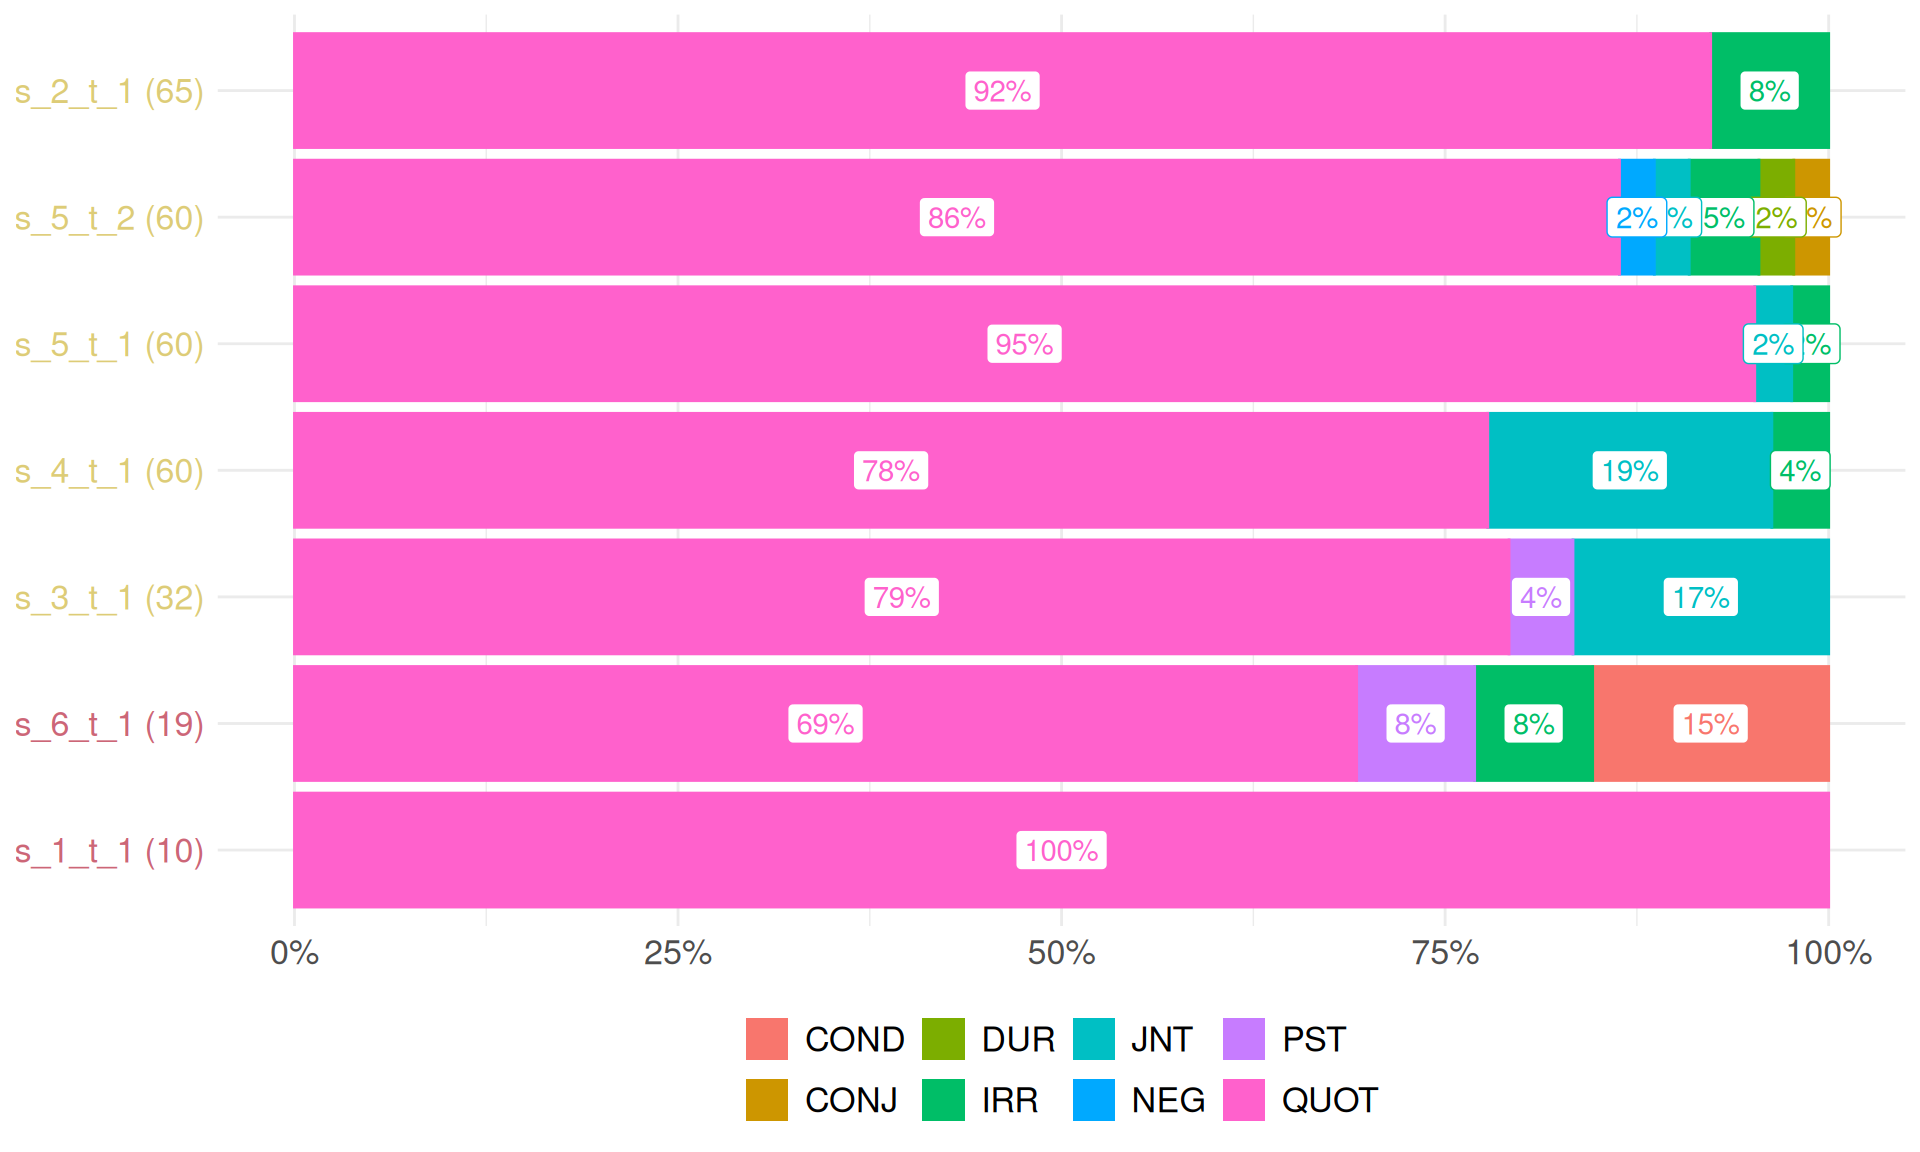
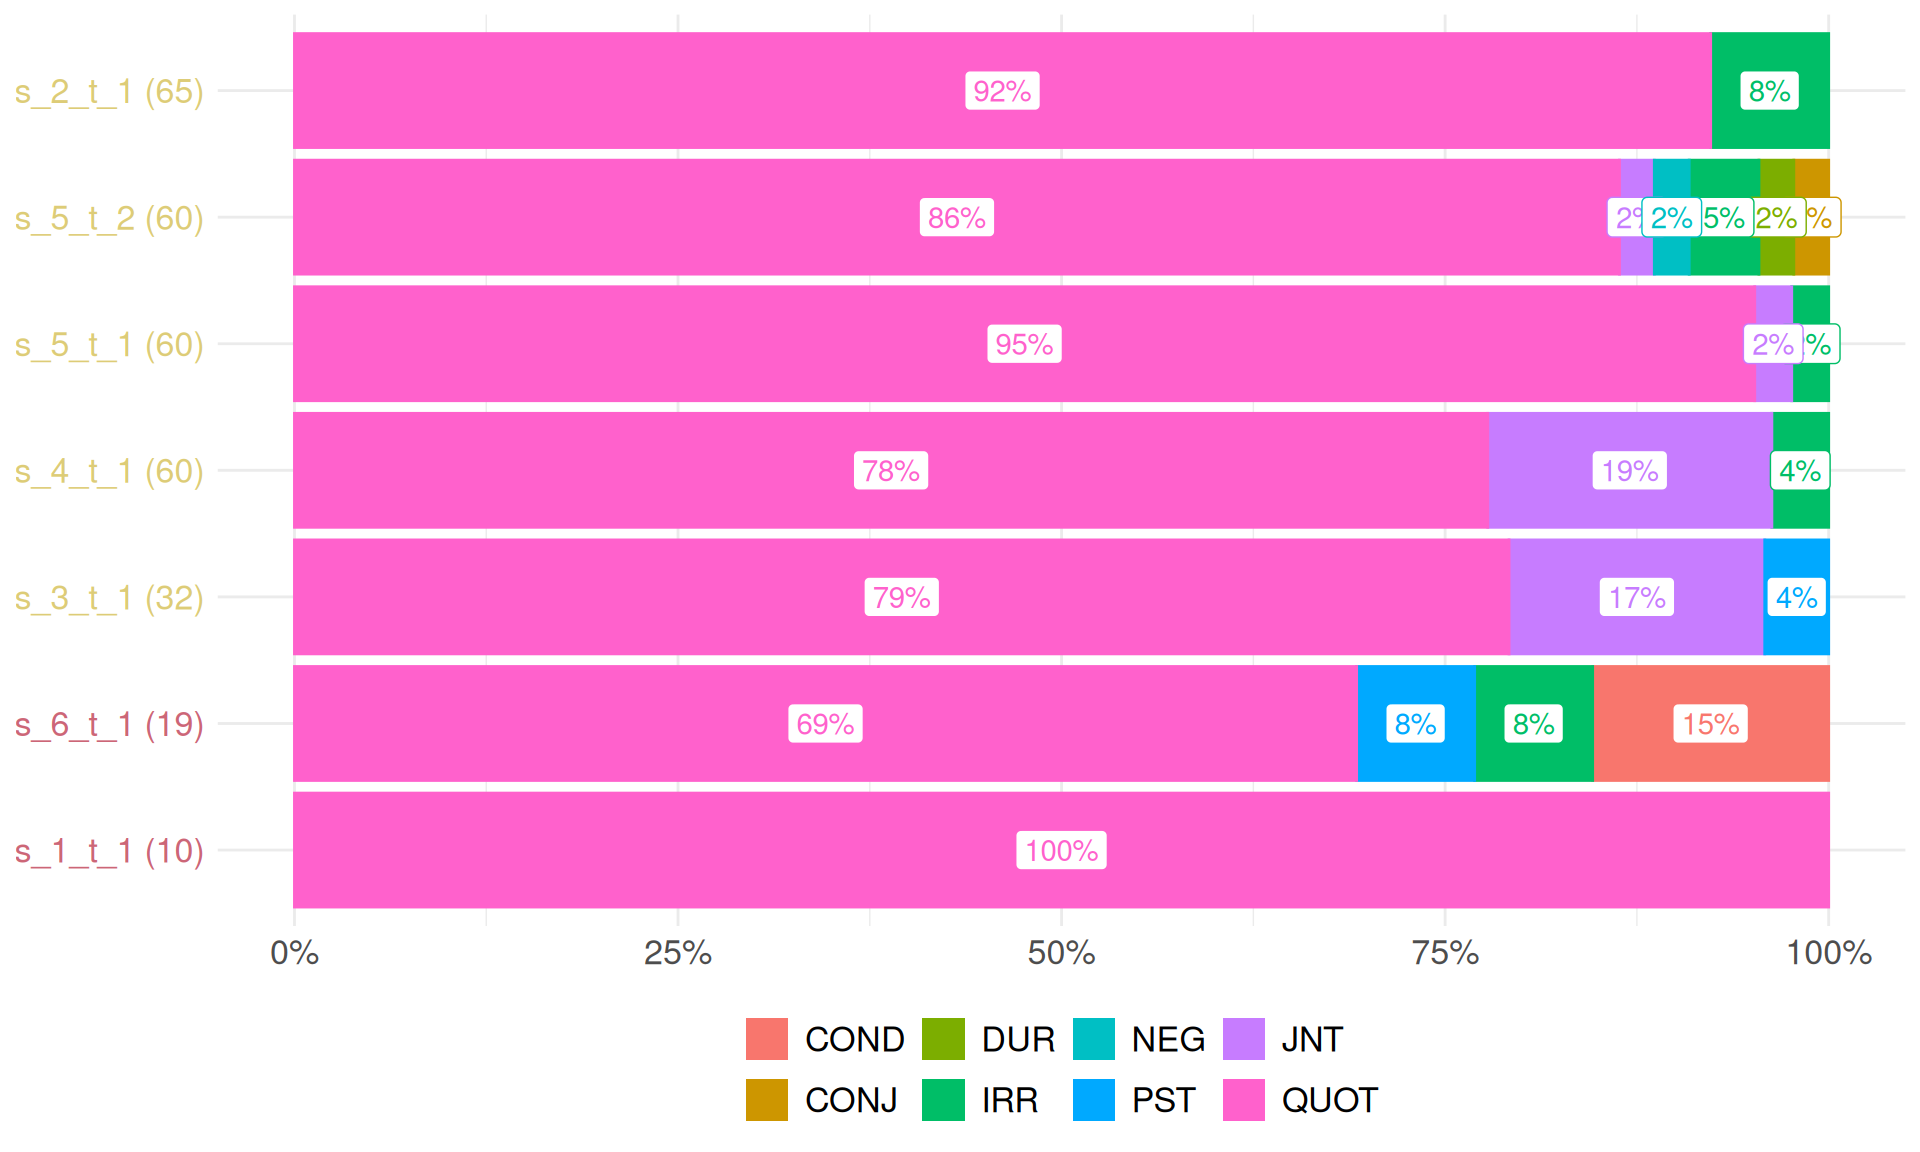
update

diff --git a/for_the_paper.html b/for_the_paper.html
@@ -1770,15 +1770,17 @@ pre > code.sourceCode > span > a:first-child::before { text-decoration: underlin
 <span id="cb51-13"><a href="#cb51-13" aria-hidden="true" tabindex="-1"></a>  <span class="fu">ungroup</span>() <span class="sc">|&gt;</span> </span>
 <span id="cb51-14"><a href="#cb51-14" aria-hidden="true" tabindex="-1"></a>  <span class="fu">mutate</span>(<span class="at">new_source =</span> <span class="fu">str_c</span>(new_source, <span class="st">" ("</span>, age, <span class="st">")"</span>),</span>
 <span id="cb51-15"><a href="#cb51-15" aria-hidden="true" tabindex="-1"></a>         <span class="at">new_source =</span> <span class="fu">fct_reorder</span>(new_source, age),</span>
-<span id="cb51-16"><a href="#cb51-16" aria-hidden="true" tabindex="-1"></a>         <span class="at">label =</span> <span class="fu">str_c</span>(<span class="fu">round</span>(ratio <span class="sc">*</span> <span class="dv">100</span>), <span class="st">"%"</span>)) <span class="sc">|&gt;</span></span>
-<span id="cb51-17"><a href="#cb51-17" aria-hidden="true" tabindex="-1"></a>  <span class="fu">filter</span>(ratio <span class="sc">&gt;</span> <span class="dv">0</span>) <span class="sc">|&gt;</span></span>
-<span id="cb51-18"><a href="#cb51-18" aria-hidden="true" tabindex="-1"></a>  <span class="fu">ggplot</span>(<span class="fu">aes</span>(<span class="at">x =</span> ratio, <span class="at">y =</span> new_source, <span class="at">label =</span> label, <span class="at">color =</span> says)) <span class="sc">+</span></span>
-<span id="cb51-19"><a href="#cb51-19" aria-hidden="true" tabindex="-1"></a>  <span class="fu">geom_col</span>(<span class="fu">aes</span>(<span class="at">fill =</span> says)) <span class="sc">+</span></span>
-<span id="cb51-20"><a href="#cb51-20" aria-hidden="true" tabindex="-1"></a>  <span class="fu">geom_label</span>(<span class="at">position =</span> <span class="fu">position_fill</span>(<span class="at">vjust =</span> <span class="fl">0.5</span>), <span class="at">fill =</span> <span class="st">"white"</span>) <span class="sc">+</span></span>
-<span id="cb51-21"><a href="#cb51-21" aria-hidden="true" tabindex="-1"></a>  <span class="fu">scale_x_continuous</span>(<span class="at">label =</span> scales<span class="sc">::</span>percent) <span class="sc">+</span></span>
-<span id="cb51-22"><a href="#cb51-22" aria-hidden="true" tabindex="-1"></a>  <span class="fu">labs</span>(<span class="at">x =</span> <span class="cn">NULL</span>, <span class="at">y =</span> <span class="cn">NULL</span>, <span class="at">fill =</span> <span class="cn">NULL</span>, <span class="at">color =</span> <span class="cn">NULL</span>) <span class="sc">+</span></span>
-<span id="cb51-23"><a href="#cb51-23" aria-hidden="true" tabindex="-1"></a>  <span class="fu">guides</span>(<span class="at">color=</span><span class="st">"none"</span>) <span class="sc">+</span></span>
-<span id="cb51-24"><a href="#cb51-24" aria-hidden="true" tabindex="-1"></a>  <span class="fu">theme</span>(<span class="at">axis.text.y =</span> <span class="fu">element_text</span>(<span class="at">colour =</span> people_text_color_k))</span></code><button title="Copy to Clipboard" class="code-copy-button"><i class="bi"></i></button></pre></div>
+<span id="cb51-16"><a href="#cb51-16" aria-hidden="true" tabindex="-1"></a>         <span class="at">label =</span> <span class="fu">str_c</span>(<span class="fu">round</span>(ratio <span class="sc">*</span> <span class="dv">100</span>), <span class="st">"%"</span>),</span>
+<span id="cb51-17"><a href="#cb51-17" aria-hidden="true" tabindex="-1"></a>         <span class="at">says =</span> <span class="fu">fct_relevel</span>(says, <span class="st">"JNT"</span>, <span class="at">after =</span> <span class="dv">8</span>),</span>
+<span id="cb51-18"><a href="#cb51-18" aria-hidden="true" tabindex="-1"></a>         <span class="at">says =</span> <span class="fu">fct_relevel</span>(says, <span class="st">"QUOT"</span>, <span class="at">after =</span> <span class="dv">7</span>)) <span class="sc">|&gt;</span></span>
+<span id="cb51-19"><a href="#cb51-19" aria-hidden="true" tabindex="-1"></a>  <span class="fu">filter</span>(ratio <span class="sc">&gt;</span> <span class="dv">0</span>) <span class="sc">|&gt;</span></span>
+<span id="cb51-20"><a href="#cb51-20" aria-hidden="true" tabindex="-1"></a>  <span class="fu">ggplot</span>(<span class="fu">aes</span>(<span class="at">x =</span> ratio, <span class="at">y =</span> new_source, <span class="at">label =</span> label, <span class="at">color =</span> says)) <span class="sc">+</span></span>
+<span id="cb51-21"><a href="#cb51-21" aria-hidden="true" tabindex="-1"></a>  <span class="fu">geom_col</span>(<span class="fu">aes</span>(<span class="at">fill =</span> says)) <span class="sc">+</span></span>
+<span id="cb51-22"><a href="#cb51-22" aria-hidden="true" tabindex="-1"></a>  <span class="fu">geom_label</span>(<span class="at">position =</span> <span class="fu">position_fill</span>(<span class="at">vjust =</span> <span class="fl">0.5</span>), <span class="at">fill =</span> <span class="st">"white"</span>) <span class="sc">+</span></span>
+<span id="cb51-23"><a href="#cb51-23" aria-hidden="true" tabindex="-1"></a>  <span class="fu">scale_x_continuous</span>(<span class="at">label =</span> scales<span class="sc">::</span>percent) <span class="sc">+</span></span>
+<span id="cb51-24"><a href="#cb51-24" aria-hidden="true" tabindex="-1"></a>  <span class="fu">labs</span>(<span class="at">x =</span> <span class="cn">NULL</span>, <span class="at">y =</span> <span class="cn">NULL</span>, <span class="at">fill =</span> <span class="cn">NULL</span>, <span class="at">color =</span> <span class="cn">NULL</span>) <span class="sc">+</span></span>
+<span id="cb51-25"><a href="#cb51-25" aria-hidden="true" tabindex="-1"></a>  <span class="fu">guides</span>(<span class="at">color=</span><span class="st">"none"</span>) <span class="sc">+</span></span>
+<span id="cb51-26"><a href="#cb51-26" aria-hidden="true" tabindex="-1"></a>  <span class="fu">theme</span>(<span class="at">axis.text.y =</span> <span class="fu">element_text</span>(<span class="at">colour =</span> people_text_color_k))</span></code><button title="Copy to Clipboard" class="code-copy-button"><i class="bi"></i></button></pre></div>
 </details>
 <div class="cell-output-display">
 <div>
